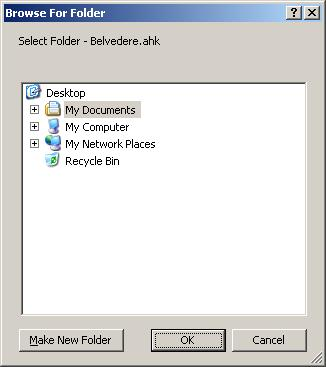
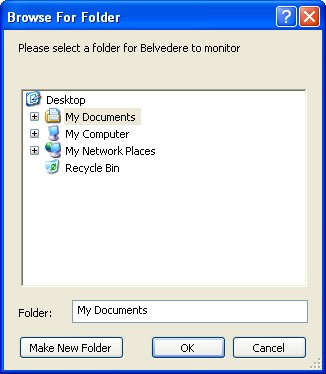
updated help text and images; closes #42

diff --git a/help/rule-create.htm b/help/rule-create.htm
@@ -12,6 +12,7 @@
 <p>The screen is divided into 4 sections:</p>
 <a href="#settings">Rule Settings Area</a><br />
 <a href="#subjects">Rule Subjects Area</a><br />
+<a href="#exclusions">Rule Exclusion Area</a><br />
 <a href="#verbs">Rule Verbs Area</a><br />
 <a href="#buttons">Rule Buttons</a><br />
 <hr />
@@ -39,8 +40,9 @@
 	  <li><strong>contains</strong> - acts upon a file if the filename contains the specified text exactly.</li>
 	  <li><strong>does not contain</strong> - acts upon a file if it does not contain the specified text exactly.</li>
 	  <li><strong>contains one of</strong> - acts upon a file if the filename contains any one of the elements in a comma separated list.  NOTE:  The list must not contain spaces between the elements and the comma, otherwise you may miss a match.</li>
+	  <li><strong>RegEx</strong> - acts upon a file if the filename matches the Regular Expression inserted.  For basic Regular Expression syntax, please used the following reference page:  <a href="http://www.autohotkey.com/docs/misc/RegEx-QuickRef.htm">http://www.autohotkey.com/docs/misc/RegEx-QuickRef.htm</a></li> 
 	</ul>
-<li><strong>extension</strong> - This subject acts upon the file extension of the file in question, excluding the filename and '.'.</li>
+<li><strong>Extension</strong> - This subject acts upon the file extension of the file in question, excluding the filename and '.'.</li>
 	<ul>
 	  <li><strong>is</strong> - acts upon a file if the file extension matches exactly.</li>
 	  <li><strong>is not</strong> - acts upon all files that do not match the file extension exactly.</li>
@@ -48,7 +50,8 @@
 	  <li><strong>does not match one of</strong> - acts upon a file if the file extension does not match any one of the elements in a comma separated list.  NOTE:  The list must not contain spaces between the elements and the comma, otherwise you may miss a match.</li>
 	  <li><strong>contains</strong> - acts upon a file if the file extension contains the specified text exactly.</li>
 	  <li><strong>does not contain</strong> - acts upon a file if the file extension does not contained the specified text exactly.</li>
-	  <li><strong>contains one of</strong> - acts upon a file if the filename contains any one of the elements in a comma separated list.  NOTE:  The list must not contain spaces between the elements and the comma, otherwise you may miss a match.</li>
+	  <li><strong>contains one of</strong> - acts upon a file if the file extension contains any one of the elements in a comma separated list.  NOTE:  The list must not contain spaces between the elements and the comma, otherwise you may miss a match.</li>
+	  <li><strong>RegEx</strong> - acts upon a file if the file extension matches the Regular Expression inserted.  For basic Regular Expression syntax, please used the following reference page:  <a href="http://www.autohotkey.com/docs/misc/RegEx-QuickRef.htm">http://www.autohotkey.com/docs/misc/RegEx-QuickRef.htm</a></li>
 	</ul>
 </ul>
 
@@ -59,7 +62,9 @@
 	  <li><strong>is</strong> - acts upon a file if the file size matches the file size specified.</li>
 	  <li><strong>is not</strong> - acts upon all files that do not match the file size specified .</li>
 	  <li><strong>is greater than</strong> - acts upon a file if the file size is greater than the file size specified.</li>
+	  <li><strong>is greater than or equal</strong> - acts upon a file if the file size is greater than or equal to the file size specified.</li>
 	  <li><strong>is less than</strong> - acts upon a file if the file size is less than the file size specified.</li>
+	  <li><strong>is less than or equal</strong> - acts upon a file if the file size is less than or equal to the file size specified.</li>
 	</ul>
 </ul>
 <p>Sizes are currently in units of Megabytes (MB) and Kilobytes (KB).</p>
@@ -85,25 +90,88 @@
 <p>Time periods are from the current system provided time and are specified in units of minutes, hours, days, and weeks.</p>
 <a href="#top">Top</a><br />
 <hr />
+<a name="exclusions"><h2>Rule Exclusions</h2></a>
+<p>The Rule Exclusion area is where the user can exclude files that match in the subject area, but with any of the selected file attributes.</p>
+<img src="images/rule-create-2a.JPG"><br />
+<p>The following options are available to users:</p>
+<ul>
+<li><strong>Read Only</strong> - Can be read, but not changed or deleted</li>
+<li><strong>Hidden</strong> - Are not shown in a directory listing by default</li>
+<li><strong>System</strong> - System files of the operating system, also not shown in a directory listing by default</li>
+</ul>
+<a href="#top">Top</a><br />
+<hr />
 <a name="verbs"><h2>Rule Verbs</h2></a>
-<p>The Rule Verbs area is where the actions of the rule are defined when ANY or ALL of the conditions set within the Rule Subjects area are met.</p>
-<img src="images/rule-create-3.JPG"><br />
-<p>The following options are available to be executed on files that meet ANY or ALL of the conditions set above:</p>
+<p>The Rule Verbs area is where the actions of the rule are defined when ANY or ALL of the conditions set within the Rule Subjects area are met.  The following options are available:</p>
+<img src="images/rule-create-3.JPG"><br /><br />
+<img src="images/rule-create-3i.JPG"><br />
 <ul>
 <li><strong>Move File</strong> - This action will relocate the file from the current location to the location set in the box to the immediate right.  This location is chosen by clicking the '...' button and selecting a valid location.</li>
 	<ul>
 		<li>The user may choose whether or not to Overwrite a file of a similar name in the location directory if it exists, by selecting the check box to the far right.  If this box is left unchecked, and a file of the same name already exists in the destination directory, the action of this rule will be skipped, without alerting the user.</li>
 		<li>The user may choose whether or not to Compress a file by selecting the check box to the far right.  Compression is in the form a single file zip, and takes the name of the file (minus extension) and is in the form of <filename>.zip.  If the box is left unchecked, the file will be moved over as normal.</li>
 	</ul>
-<li><strong>Rename File</strong> - This action will rename the file in the current location as identified by the conditions set above.</li>
+<li><strong>Move File & leave shortcut</strong> - Exactly like the option above, this action will relocate the file from the current location to the location set in the box to the immediate right.  This option leaves a shortcut in the original location pointing to the new location.</li>
+	<ul>
+		<li>The user may choose whether or not to Overwrite a file of a similar name in the location directory if it exists, by selecting the check box to the far right.  If this box is left unchecked, and a file of the same name already exists in the destination directory, the action of this rule will be skipped, without alerting the user.</li>
+		<li>The user may choose whether or not to Compress a file by selecting the check box to the far right.  Compression is in the form a single file zip, and takes the name of the file (minus extension) and is in the form of <filename>.zip.  If the box is left unchecked, the file will be moved over as normal.</li>
+	</ul>
+</ul>
+<img src="images/rule-create-3a.JPG"><br />
+<ul>
+<li><strong>Rename File</strong> - This action will rename the file in the current location as identified by the conditions set above.  The following naming templates (input exactly as shown below) are available for use:</li>
+	<ul>
+		<li><strong>[filename]</strong> - The full filename, minus the period and extension.</li>
+		<li><strong>[fullname]</strong> - The full filename, including the period and extension.</li>
+		<li><strong>[ext]</strong> - The file extension, minus the period.</li>
+		<li><strong>[drive]</strong> - The file drive letter.</li>
+		<li><strong>[YYYY]</strong> - Current 4-digit year (e.g. 2004).</li>
+		<li><strong>[MM]</strong> - Current 2-digit month (01-12).</li>
+		<li><strong>[DD]</strong> - Current 2-digit day of the month (01-31).</li>
+		<li><strong>[MMMM]</strong> - Current month's full name in the current user's language, e.g. July. </li>
+		<li><strong>[MMM]</strong> - Current month's abbreviation in the current user's language, e.g. Jul.</li>
+		<li><strong>[DDDD]</strong> - Current day of the week's full name in the current user's language, e.g. Sunday.</li>
+		<li><strong>[DDD]</strong> - Current day of the week's 3-letter abbreviation in the current user's language, e.g. Sun.</li>
+		<li><strong>[WDay]</strong> - Current 1-digit day of the week (1-7). 1 is Sunday in all locales.</li>
+		<li><strong>[YDay]</strong> - Current day of the year (1-366). The value is not zero-padded, e.g. 9 is retrieved, not 009.</li>
+		<li><strong>[YWeek]</strong> - Current year and week number (e.g. 200453) according to ISO 8601.</li>
+		<li><strong>[hh]</strong> - Current 2-digit hour (00-23) in 24-hour time (for example, 17 is 5pm).</li>
+		<li><strong>[mm]</strong> - Current 2-digit minute (00-59).</li>
+		<li><strong>[ss]</strong> - Current 2-digit second (00-59).</li>
+		<li><strong>[ms]</strong> - Current 3-digit millisecond (000-999).</li>
+		<li><strong>[DT]</strong> - The current local time in YYYYMMDDHH24MISS format.</li>
+		<li><strong>[DT-UTC]</strong> - The current Coordinated Universal Time (UTC) in YYYYMMDDHH24MISS format. UTC is essentially the same as Greenwich Mean Time (GMT).</li>
+	</ul>
+	<p>Please note that while characters other than the templates listed above can be used, Belvedere will strip out all illegal filename characters (\, /, :, ?, <, >, *, |, ") if they are present.<br />
+	    Some descriptions above were taken from the Autohotkey on line help text at <a href="http://www.autohotkey.com/docs/Variables.htm#BuiltIn">http://www.autohotkey.com/docs/Variables.htm#BuiltIn</a> . Further clarifications can be found at the aforementioned link.</p>
+</ul>
+<img src="images/rule-create-3b.JPG"><br /><br />
+<img src="images/rule-create-3c.JPG"><br />
+<ul>		
 <li><strong>Send file to Recycle Bin</strong> - This action will move the file from the current location to the Windows Recycle Bin.</li>
 <li><strong>Delete file</strong> - This action will irreversibly delete the file from the current location.</li>
+</ul>
+<img src="images/rule-create-3d.JPG"><br />
+<ul>
 <li><strong>Copy File</strong> - This action will make a copy of the file in question in the location chosen by clicking the '...' button and selecting a valid location.</li>
 	<ul>
 		<li>The user may choose whether or not to Overwrite a file of a similar name in the location directory if it exists, by selecting the check box to the far right.  If this box is left unchecked, and a file of the same name already exists in the destination directory, the action of this rule will be skipped, without alerting the user.</li>
 		<li>The user may choose whether or not to Compress a file by selecting the check box to the far right.  Compression is in the form a single file zip, and takes the name of the file (minus extension) and is in the form of <filename>.zip.  If the box is left unchecked, the file will be moved over as normal.</li>
 	</ul>
+</ul>
+<img src="images/rule-create-3e.JPG"><br /><br />
+<img src="images/rule-create-3f.JPG"><br />
+<ul>	
 <li><strong>Open File</strong> - This action will open the file in question as handled by file extension associations within your operating system.  For example, if .txt files are associated with Notepad by default, the file in question will be opened by said program.</li>
+<li><strong>Print File</strong> - This action will send the file in question to the default print spooler for printing.</li>
+</ul>
+<img src="images/rule-create-3g.JPG"><br />
+<ul>
+<li><strong>Custom</strong> - This action will execute a user defined command or executable with the matched file as first parameter of the executable.</li>
+</ul>
+<img src="images/rule-create-3h.JPG"><br />
+<ul>
+<li><strong>Add to iTunes</strong> - This action will use the iTunes COM interface to add the matched file to the default iTunes Library.</li>
 </ul>
 <a href="#top">Top</a><br />
 <hr />

diff --git a/help/tab-preferences.htm b/help/tab-preferences.htm
@@ -9,30 +9,30 @@
 <h1>Preferences Tab</h1>
 <p>With the preferences tab, users can configure the various aspects of Belvedere to their liking</p>
 <img src="images/tab-prefs-full.JPG"><br /><br />
-<a href="#sleep">Sleeptime</a><br />
-<a href="#log">System Logging</a><br />
+<a href="#system">System Options</a><br />
+<a href="#log">Logging/Alert Options</a><br />
+<a href="#options">Default Rule Options</a><br />
 <a href="#cmd">Command Line Parameters</a><br />
 <a href="#verify">Verify Configuration</a><br />
 <hr />
-<a name="sleep"><h2>Sleeptime</h2></a>
-<p>The sleeptime setting is used to configure how often Belvedere will rotate through the folder and rules.  After each process time, Belvedere will go to sleep for the specified period of time.  Once this time period has passed, Belvedere will 'wake-up' and work through all the active rules for each folder.  All times inserted are in milliseconds.</p>
-<h3>Examples:</h3>
-<ul>
-<li><strong>3000000 </strong>- 3 hours</li>
-<li><strong>300000 </strong>- 3 minutes</li>
-<li><strong>30000 </strong>- 30 seconds</li>
-<li><strong>3000 </strong>- 3 seconds</li>
-</ul>
+<a name="system"><h2>System Options</h2></a>
+<img src="images/tab-prefs-1.JPG"><br />
+<h3>Sleeptime</h3>
+<p>The sleeptime setting is used to configure how often Belvedere will rotate through the folder and rules. After each process time, Belvedere will go to sleep for the specified period of time. Once this time period has passed, Belvedere will 'wake-up' and work through all the active rules for each folder.  Time periods are from the last program execution time and are specified in units of seconds, minutes, hours, days, and weeks.</p>
+<h3>Exit Confirmation</h3>
+<p>Belvedere will display a confirmation message by default when the user tries to exit the application.  This can be turned off, eliminating the need for confirmation, by removing the checkmark from this particular box.</p>
 <a href="#top">Top</a><br />
 <hr />
-<a name="log"><h2>System Logging</h2></a>
+<a name="log"><h2>Logging/Alert Options</h2></a>
+<img src="images/tab-prefs-2.JPG"><br />
+<h3>System Logging</h3>
 <p>Belvedere is capable of logging all the actions within the system in 3 different forms:</p>
 <ol>
 <li><strong>System Events (System) </strong>- This option allows the user to log all activity within Belvedere with respect to option changes, rule creation/deletion/activation.</li>
 <li><strong>System Actions (Actions) </strong>- this option allows the user to log all actions that Belvedere takes based upon the rules that are set up and active within the system.</li>
 <li><strong>All System Occurrences (Both) </strong>- This option is a combination of both of the options listed above.</li>
 </ol>
-<h3>Examples:</h3>
+<h4>Examples:</h4>
 <ul>
 <dl>
 <dt>System Events</dt><br />
@@ -46,9 +46,29 @@
 <dd style="font-family: monospace">2009-04-28 10:38:14 ======================================</dd>
 </dl>
 </ul>
+<h3>Growl for Windows</h3>
+<p>Belvedere has the ability to send alerts to Growl for Windows (if installed) to alert users of actions as they occur.  If checked, Belvedere will register itself with Growl for Windows upon startup, and send alerts.  A restart is required if this setting is changed.  The following types of alerts are currently supported:</p>
+<ul>
+<li><strong> Action </strong>- This type of alert is triggered when an acition is taken by Belvedere based on any enabled rules.</li>
+<li><strong> System </strong>- This type of alert is triggered when the user changes a system setting or configuration option.</li>
+<li><strong> Error </strong>- This type of alert is triggered when an action is taken by Belvedere by was unable to complete successfully.</li>
+</ul>
+<h3>Windows Tray Tips</h3>
+<p>Belvedere has the ability to send alerts to the Windows Tray to alert users of actions as they occur.  If checked, Belvedere will begin sending alerts to the Windows Tray.  A restart is required if this setting is changed.  The following types of alerts are currently supported:</p>
+<ul>
+<li><strong> Action </strong>- This type of alert is triggered when an acition is taken by Belvedere based on any enabled rules.</li>
+<li><strong> System </strong>- This type of alert is triggered when the user changes a system setting or configuration option.</li>
+<li><strong> Error </strong>- This type of alert is triggered when an action is taken by Belvedere by was unable to complete successfully.</li>
+</ul>
+<a href="#top">Top</a><br />
+<hr />
+<a name="options"><h2>Default Rule Options</h2></a>
+<img src="images/tab-prefs-3.JPG"><br />
+<p>When creating a new rule, the Rule Options in the top right hand corner of the <a href="rule-create.htm">Create rule</a> dialog can be defaulted to checked/unchecked, depending on the options chosen in this section.  This setting will then apply to all newly created rules.</p>
 <a href="#top">Top</a><br />
 <hr />
 <a name="cmd"><h2>Command Line Parameters</h2></a>
+<img src="images/tab-prefs-4.JPG"><br />
 <p>Belvedere has the ability accept command line parameters to alter various settings of the application at runtime.  The following parameters and their values are currently accepted by Belvedere:</p>
 <ul>
 <dl>
@@ -62,6 +82,7 @@
 <a href="#top">Top</a><br />
 <hr />
 <a name="verify"><h2>Verify Configuration</h2></a>
+<img src="images/tab-prefs-5.JPG"><br />
 <p>By clicking this button, Belvedere will both verify and correct basic errors within the rules.ini file.  This functionality is specifically used when the rules file is found to be corrupted or incomplete.  This verification should also be executed immediately following an application upgrade to ensure that the rules.ini file it upgraded to the most current release.</p>
 <a href="#top">Top</a><br />
 </BODY>

diff --git a/help/tab-folders.htm b/help/tab-folders.htm
@@ -16,6 +16,11 @@
 <a name="folders"><h2>Folder List</h2></a>
 <p>This list shows the folders that have been added to Belvedere to monitor with the rules displayed on the right side.</p>
 <img src="images/tab-folders-1.JPG">
+<p>The buttons to the left of the folder list allow the user to set the order in which folders, and their rules, are processed.  Folder processing occurs from the top, down.</p>
+<ul>
+<li><strong> '/\' Button </strong> - Will move the selected folder up one position in the displayed list.</li>
+<li><strong> '\/' button </strong> - Will move the selected folder down one position in the displayed list.</li>
+</ul>
 <p>The following buttons are available below the folder list:</p>
 <ul>
 <li><strong> '+' Button </strong>- To add a folder, click the '+' button at the bottom of the screen, and select the folder from the dialog box.</li>
@@ -26,7 +31,7 @@
 <a href="#top">Top</a><br />
 <hr />
 <a name="rules"><h2>Rule List</h2></a>
-<p>This list shows the rules for the folder selected in the left side of the screen.  Here you can see the name of the rule, and if the rule is currently enabled or not.  If a rule is listed as 'Yes' in the 'Enabled' column, the rules will be applied to all files within the specified folder.  If the rule is listed as 'No' in the 'Enabled' column, this particular rule will be skipped over during processing.</p>
+<p>This list shows the rules for the folder selected in the left side of the screen and displayed immediately above.  Here you can see the name of the rule, and if the rule is currently enabled or not.  If a rule is listed as 'Yes' in the 'Enabled' column, the rules will be applied to all files within the specified folder.  If the rule is listed as 'No' in the 'Enabled' column, this particular rule will be skipped over during processing.</p>
 <img src="images/tab-folders-2.JPG">
 <p>The following buttons are available below the folder list:</p>
 <ul>
@@ -35,6 +40,17 @@
 <li><strong> Edit Rule Button </strong>- To edit an existing rule, highlight the rule above, and click the 'Edit Rule' button and complete the <a href="rule-edit.htm">Edit Rule</a> Dialog.</li>
 <li><strong> Enable/Disable Button </strong>- To enable or disable an existing rule, highlight the rule above, and click the 'Enable/Disable' button to change its status.</li>
 </ul>
+<p>The buttons to the right of the rule list allow the user to set the order in which rules are processed.  Rule processing occurs from the top, down.</p>
+<ul>
+<li><strong> '/\' Button </strong> - Will move the selected rule up one position in the displayed list.</li>
+<li><strong> '\/' button </strong> - Will move the selected rule down one position in the displayed list.</li>
+</ul>
+<p>A context menu is available by right-clicking on the rule names in order to execute the following options:
+<ul>
+<li><strong> Copy to </strong>- By highlighting 'Click to,' Belvedere will list the other folders to which you may copy the selected rule.  An exact copy will be made with an incremented counter placed after the rule name to protect against duplicate names.</li>
+<li><strong> Move to </strong>- By highlighting 'Move to,' Belvedere will list the other folders to which you may move the selected rule. The chosen rule will be removed from the current folder and relocated to the newly chosen folder.</li>
+</ul>
+</p>
 <a href="#top">Top</a><br />
 </BODY>
 </HTML>

diff --git a/help/index.htm b/help/index.htm
@@ -10,7 +10,7 @@
 <p>Belvedere is an automated file management application that performs actions on files based on user-defined criteria. For example, if a file in your downloads folder hasn't been opened in 4 weeks and it's larger than 10MB, you can tell Belvedere to automatically send it to the Recycle Bin.  Belvedere is written by Adam Pash and distributed by Lifehacker under the GNU Public License. For details on how to use Belvedere, check out the <a href="http://lifehacker.com/341950/">Belvedere homepage</a>.</p>
 <p>Icon provided by <a href="http://what-cheer.com/">What Cheer</a></p>
 <p>Compression functionality provided by <a href="http://www.7-zip.com">7-zip</a> under the GNU LGPL license</p>
-<p>Version: 0.5<br />
+<p>Version: 0.6<br />
 Creator: Adam Pash<br />
 Contributors: Matt Shorts<br />
 QA & Testing: Dustin Luck</p>
@@ -18,6 +18,21 @@ QA & Testing: Dustin Luck</p>
 <hr />
 <h1>Changelog</h1>
 <pre>
+Version 0.6
+	added regex support
+	added rule copy/move support
+	added new actions
+	  print action
+	  move & leave shortcut action
+	  custom actions
+	  add to iTunes action
+	added folder/rule prioritization
+	added is >= and is <= verbs
+	added growl for windows support
+	changed sleeptime to be more user friendly
+	changed handling of duplicate rule names;  mirrored windows approach (i.e. <rule name> (1), (2), etc.)
+	fixed bug that did not allow duplicate folder names, but different paths
+
 Version 0.5
 	added system and action logging and viewer
 	added new verb 'contains one of'
